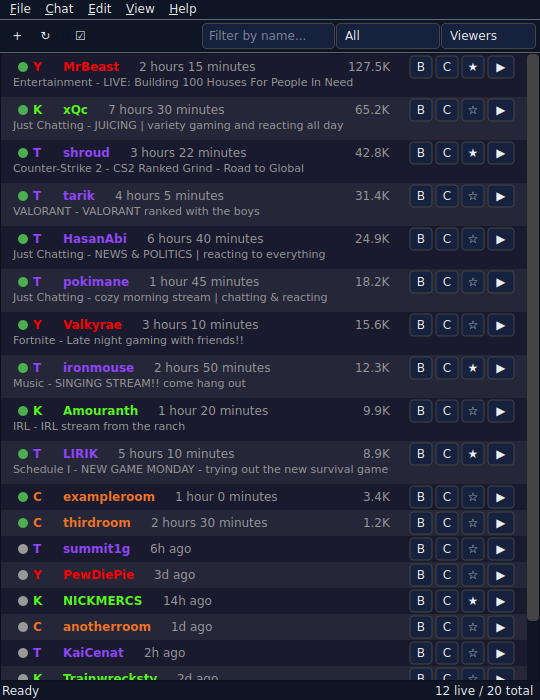
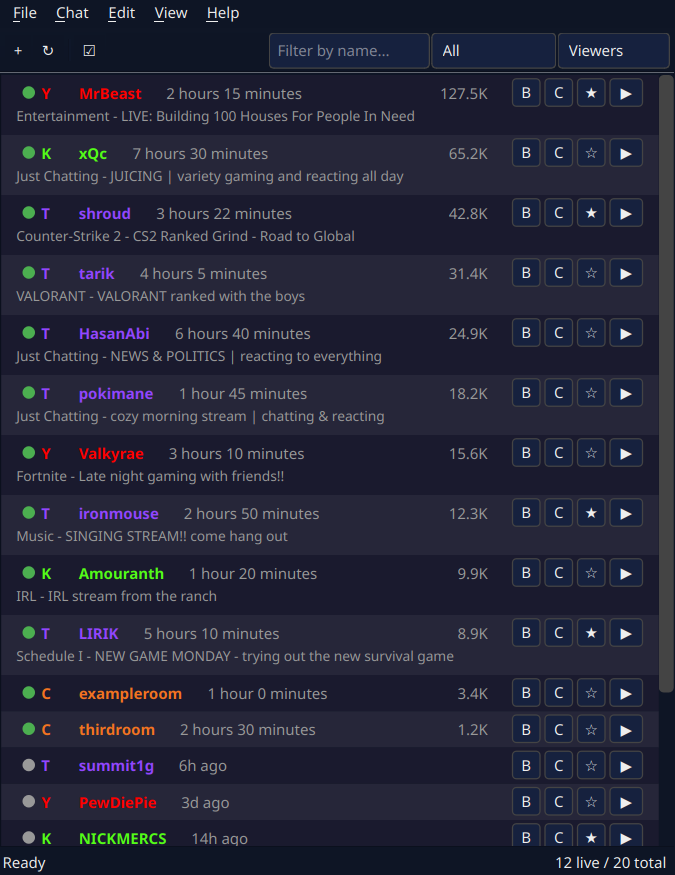
Fix compact mode stale row heights by forcing QListView layout invalidation

diff --git a/scripts/capture_screenshots.py b/scripts/capture_screenshots.py
@@ -518,6 +518,9 @@ def main():
         window.resize(360, 700)  # 900 * 0.4 = 360 (60% narrower)
         if window._stream_delegate:
             window._stream_delegate.invalidate_size_cache()
+        # Force QListView to re-query all sizeHints (clears internal layout cache)
+        window.stream_list.scheduleDelayedItemsLayout()
+        qt_app.processEvents()
         window.refresh_stream_list()
         qt_app.processEvents()
         capture_screenshot(window, "compact-mode.png")
